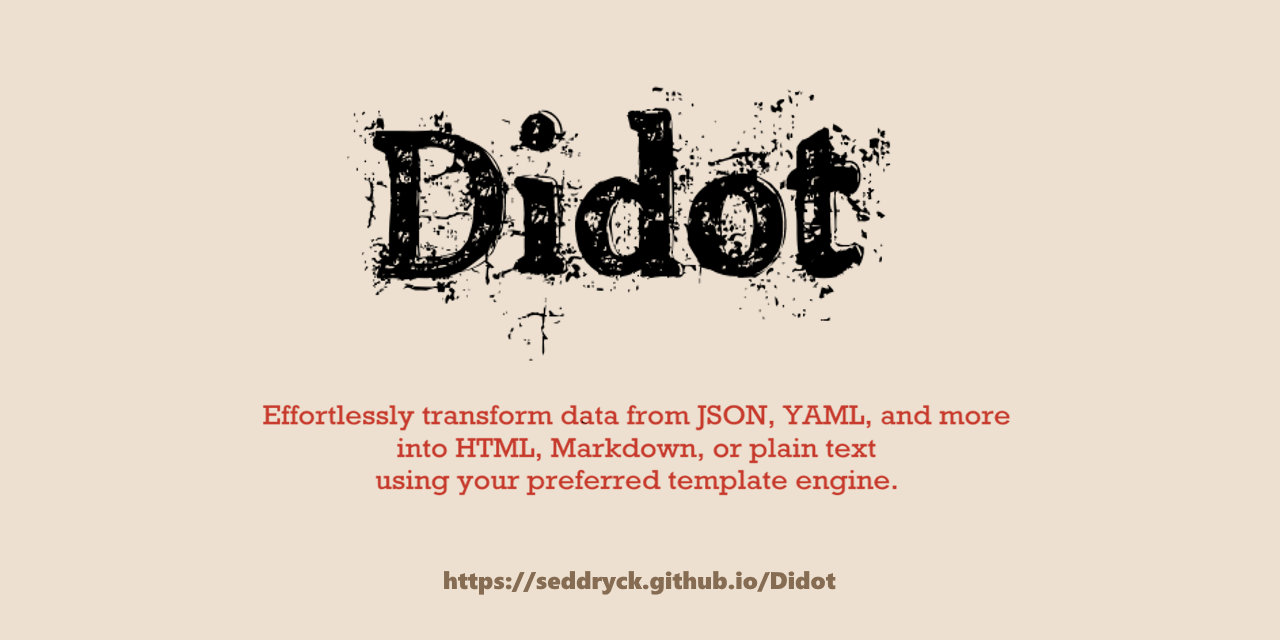
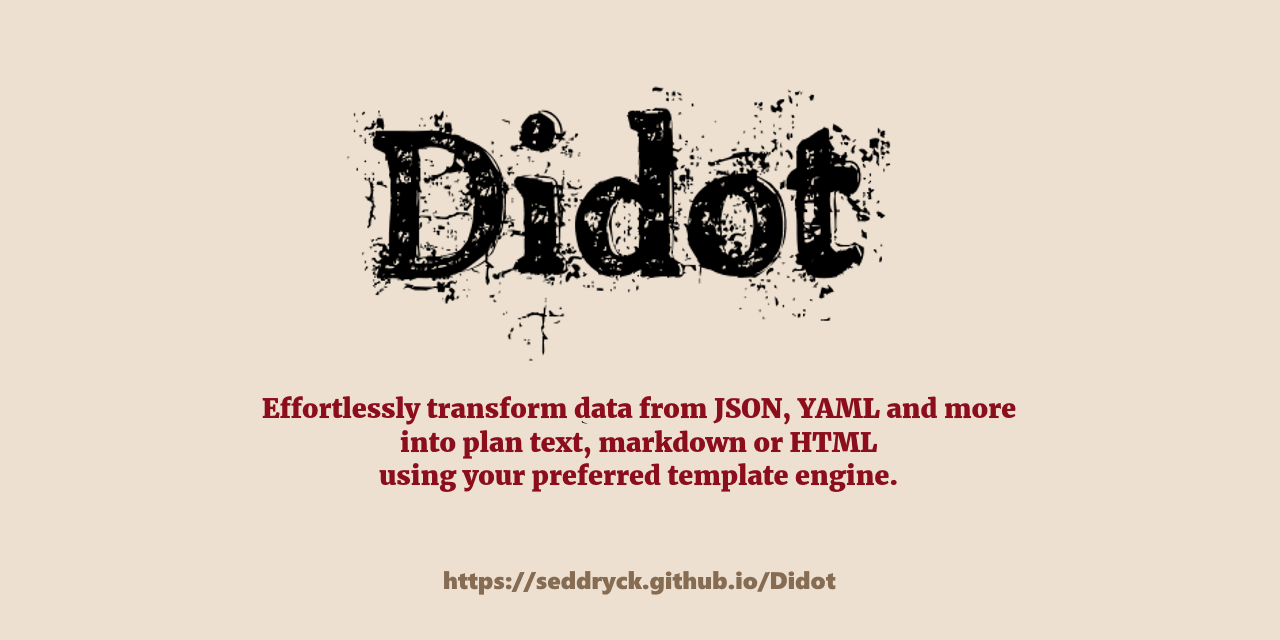
docs: new review of color palette

Changed region(s): [[0.1875, 0.625, 0.8125, 0.7812]]

diff --git a/docs/_sass/uikit/components/button.scss b/docs/_sass/uikit/components/button.scss
@@ -41,12 +41,12 @@ $button-default-hover-color:                     $global-emphasis-color !default
 $button-default-active-background:               darken($button-default-background, 10%) !default;
 $button-default-active-color:                    $global-emphasis-color !default;
 
-$button-primary-background:                      $global-primary-background !default;
+$button-primary-background:                      $global-muted-color;
 $button-primary-color:                           $global-inverse-color !default;
-$button-primary-hover-background:                darken($button-primary-background, 5%) !default;
-$button-primary-hover-color:                     $global-inverse-color !default;
-$button-primary-active-background:               darken($button-primary-background, 10%) !default;
-$button-primary-active-color:                    $global-inverse-color !default;
+$button-primary-hover-background:                darken($button-primary-background, 5%);
+$button-primary-hover-color:                     #89C1C3;
+$button-primary-active-background:               darken($button-primary-background, 10%);
+$button-primary-active-color:                    #89C1C3;
 
 $button-secondary-background:                    $global-secondary-background !default;
 $button-secondary-color:                         $global-inverse-color !default;

diff --git a/docs/_sass/uikit/components/card.scss b/docs/_sass/uikit/components/card.scss
@@ -52,8 +52,8 @@ $card-badge-right:                              $card-badge-top !default;
 $card-hover-background:                         $global-secondary-background !default;
 
 $card-default-background:                       $global-secondary-background;
-$card-default-color:                            $global-background;
-$card-default-title-color:                      $global-emphasis-color !default;
+$card-default-color:                            #89C1C3;
+$card-default-title-color:                      $global-primary-background;
 $card-default-hover-background:                 darken($card-default-background, 5%);
 
 $card-primary-background:                       $global-primary-background !default;

diff --git a/docs/_sass/theme/mixins.scss b/docs/_sass/theme/mixins.scss
@@ -106,15 +106,15 @@
 
     // Primary outline
     .uk-button-primary-outline {
-        background-color: $button-primary-background;
+        background-color: $global-primary-background;
         color: $global-color;
         border: $button-border-width solid $button-primary-background;
     }
 
     .uk-button-primary-outline:hover,
     .uk-button-primary-outline:focus {
-        background-color: $button-primary-background;
-        color: $button-primary-hover-color;
+        background-color: $global-primary-background;
+        color: $global-secondary-background;
         border: $button-border-width solid $button-primary-background;
     }
 

diff --git a/docs/_sass/theme/variables.scss b/docs/_sass/theme/variables.scss
@@ -4,9 +4,9 @@
 // Color
 $global-background:                           #EDE0D0;
 $global-color:                                #1F1E23;
-$global-muted-color:                          #866C53;
+$global-muted-color:                          #8c0d1c;
 $global-primary-background:                   #EDE0D0;
-$global-secondary-background:                 #C7392B;
+$global-secondary-background:                 #8c0d1c;
 $global-warning-background:                   #DF6446;
 $global-success-background:                   #92ca9a;
 $global-danger-background:                    #da9da8;
